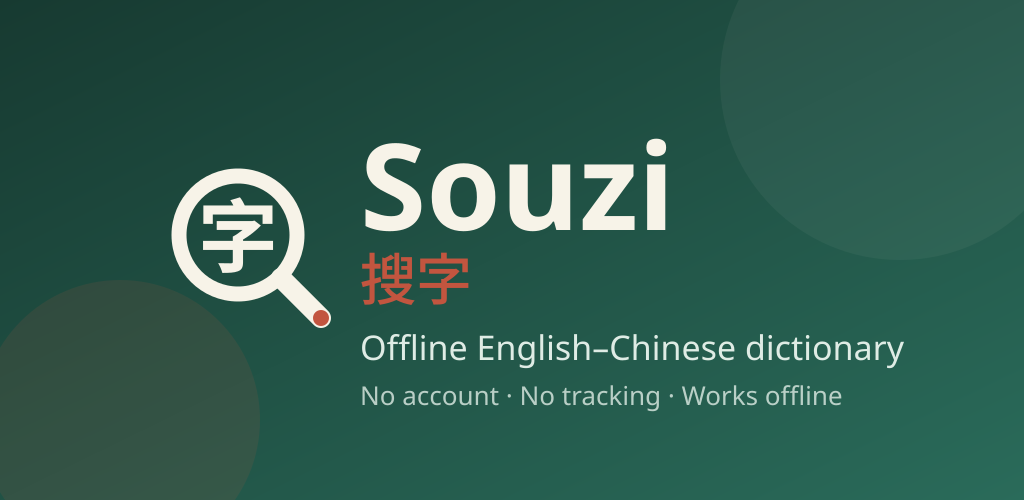
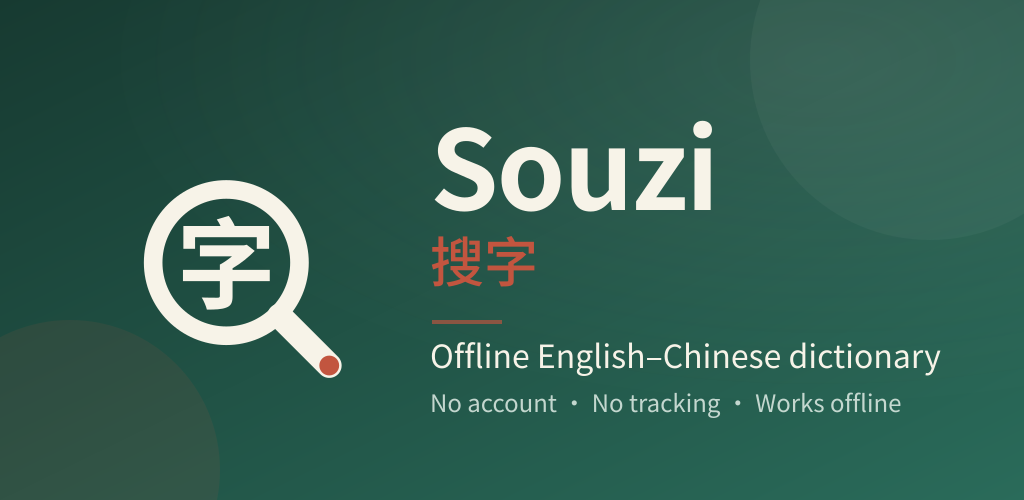
feat(seo): add social preview image, metadata, sitemap, robots

Changed region(s): [[0.125, 0.24, 0.9375, 0.75], [0.3438, 0.78, 0.875, 0.84]]

diff --git a/index.html b/index.html
@@ -8,15 +8,73 @@
     />
     <meta
       name="description"
-      content="Souzi is an offline-first English–Chinese dictionary with a bundled ECDICT core. Import CC-CEDICT for full Chinese coverage."
+      content="Souzi is a free, offline-first English–Chinese dictionary for web and Android. Bundled English core, optional 770,000-word pack, local CC-CEDICT import, no account or tracking."
     />
     <meta name="theme-color" media="(prefers-color-scheme: light)" content="#f7f3e8" />
     <meta name="theme-color" media="(prefers-color-scheme: dark)" content="#0d1411" />
+    <link rel="canonical" href="https://amoshydra.github.io/souzi/" />
+    <meta name="application-name" content="Souzi" />
+    <meta name="apple-mobile-web-app-title" content="Souzi" />
+
+    <!-- Open Graph -->
+    <meta property="og:type" content="website" />
+    <meta property="og:site_name" content="Souzi" />
+    <meta property="og:locale" content="en_US" />
+    <meta property="og:url" content="https://amoshydra.github.io/souzi/" />
+    <meta property="og:title" content="Souzi — Offline English–Chinese Dictionary" />
+    <meta
+      property="og:description"
+      content="Look up English and Chinese offline. Free, private, and made to be easy to read. No account, no tracking, no server."
+    />
+    <meta property="og:image" content="https://amoshydra.github.io/souzi/og-image.png" />
+    <meta property="og:image:type" content="image/png" />
+    <meta property="og:image:width" content="1200" />
+    <meta property="og:image:height" content="630" />
+    <meta
+      property="og:image:alt"
+      content="Souzi logo with the Chinese character 字 inside a magnifying glass"
+    />
+
+    <!-- Twitter / X -->
+    <meta name="twitter:card" content="summary_large_image" />
+    <meta name="twitter:title" content="Souzi — Offline English–Chinese Dictionary" />
+    <meta
+      name="twitter:description"
+      content="Look up English and Chinese offline. Free, private, and made to be easy to read. No account, no tracking, no server."
+    />
+    <meta name="twitter:image" content="https://amoshydra.github.io/souzi/og-image.png" />
+    <meta
+      name="twitter:image:alt"
+      content="Souzi logo with the Chinese character 字 inside a magnifying glass"
+    />
+
     <link rel="icon" type="image/svg+xml" href="%BASE_URL%favicon.svg" />
-    <link rel="apple-touch-icon" href="%BASE_URL%icons/icon-192.png" />
+    <link rel="apple-touch-icon" href="%BASE_URL%apple-touch-icon.png" />
     <meta name="apple-mobile-web-app-capable" content="yes" />
     <meta name="apple-mobile-web-app-status-bar-style" content="default" />
-    <meta name="apple-mobile-web-app-title" content="Souzi" />
+    <script type="application/ld+json">
+      {
+        "@context": "https://schema.org",
+        "@type": "WebApplication",
+        "name": "Souzi",
+        "alternateName": "搜字",
+        "url": "https://amoshydra.github.io/souzi/",
+        "description": "A free, offline-first English–Chinese dictionary for web and Android. No account, no tracking, and no server.",
+        "applicationCategory": "ReferenceApplication",
+        "operatingSystem": "Web, Android",
+        "browserRequirements": "Requires JavaScript",
+        "inLanguage": ["en", "zh"],
+        "isAccessibleForFree": true,
+        "offers": {
+          "@type": "Offer",
+          "price": "0",
+          "priceCurrency": "USD"
+        },
+        "image": "https://amoshydra.github.io/souzi/og-image.png",
+        "license": "https://www.apache.org/licenses/LICENSE-2.0",
+        "sameAs": ["https://github.com/amoshydra/souzi"]
+      }
+    </script>
     <script>
       (function () {
         try {
@@ -32,7 +90,7 @@
         }
       })();
     </script>
-    <title>Souzi — Chinese Dictionary</title>
+    <title>Souzi — Offline English–Chinese Dictionary</title>
   </head>
   <body>
     <div id="root"></div>

diff --git a/vite.config.ts b/vite.config.ts
@@ -12,12 +12,19 @@ export default defineConfig({
     react(),
     VitePWA({
       registerType: "autoUpdate",
-      includeAssets: ["favicon.svg", "icons/*.png"],
+      includeAssets: [
+        "favicon.svg",
+        "apple-touch-icon.png",
+        "og-image.png",
+        "robots.txt",
+        "sitemap.xml",
+        "icons/*.png",
+      ],
       manifest: {
         name: "Souzi — Chinese Dictionary",
         short_name: "Souzi",
         description:
-          "An offline-first English–Chinese dictionary with a bundled ECDICT core. Import CC-CEDICT for full Chinese coverage.",
+          "A free, offline-first English–Chinese dictionary for web and Android. No account, no tracking, and no server.",
         id: base,
         lang: "en",
         categories: ["education", "reference"],
